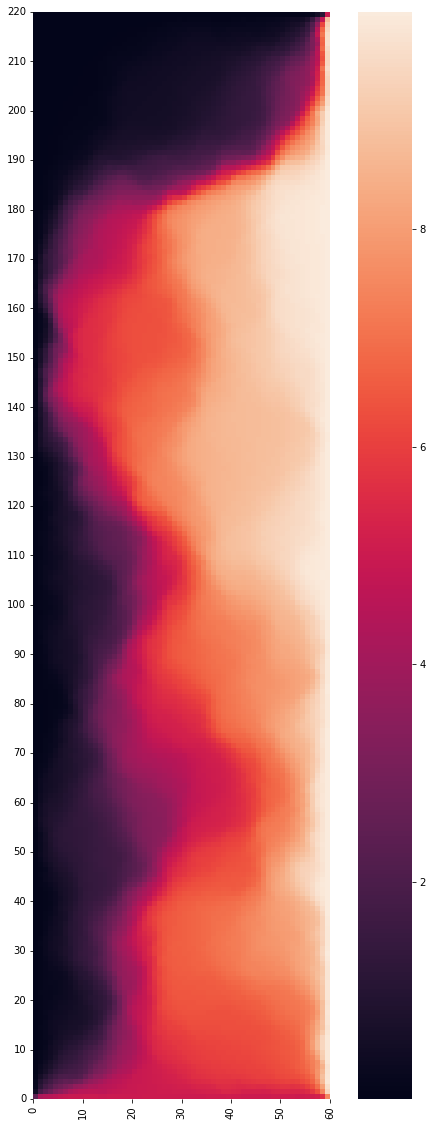
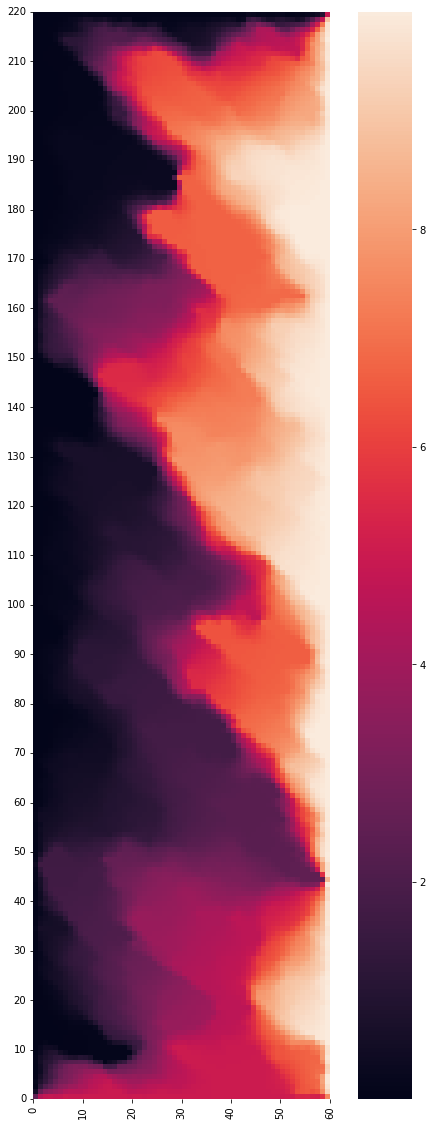
change image

diff --git a/testing/tests.cpp b/testing/tests.cpp
@@ -53,9 +53,11 @@ int main(int argc, char **argv) {
 
     std::vector<double> kx, ky, kz;
     readData(file, kx, ky, kz);
-    A= get_SLAE(kx,ky,kz);
-    A.write_to_file();
+    std::vector<double> kx_s, ky_s, kz_s;
+    separateData(kx, ky, kz, kx_s, ky_s, kz_s);
 
+    A = get_SLAE(kx_s, ky_s, kz_s);
+    A.write_to_file();
 
     return 0;
 }
